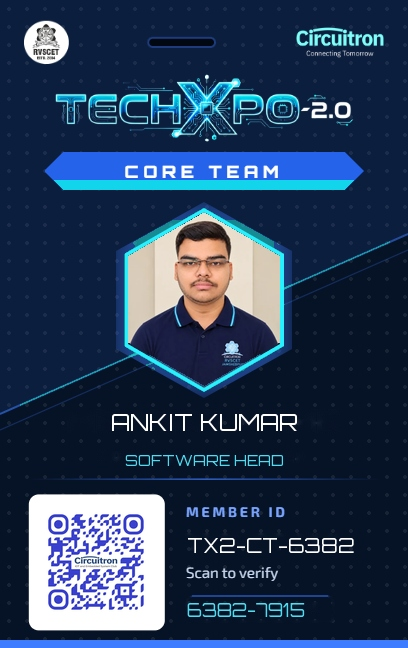
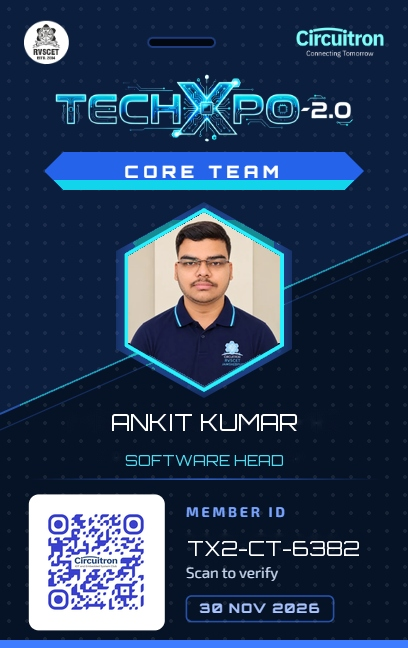
Remove legacy credential IDs, delete old card assets, and remove security bit display

Changed region(s): [[0.4412, 0.9259, 0.8235, 0.9877], [0.4706, 0.8333, 0.8824, 0.8642]]

diff --git a/src/pages/Verify.jsx b/src/pages/Verify.jsx
@@ -32,8 +32,8 @@ export default function Verify() {
   const [searchParams] = useSearchParams();
   const navigate = useNavigate();
 
-  // Determine target member ID from URL param or query string (defaults to TX2-EX-003 for Subha Pain)
-  const targetId = (paramId || searchParams.get("id") || "TX2-EX-003").trim().toUpperCase();
+  // Determine target member ID from URL param or query string (defaults to TX2-EX-9531 for Subha Pain)
+  const targetId = (paramId || searchParams.get("id") || "TX2-EX-9531").trim().toUpperCase();
 
   const [inputSearchId, setInputSearchId] = useState(targetId);
   const [copied, setCopied] = useState(false);
@@ -170,22 +170,12 @@ export default function Verify() {
                 </div>
               </div>
 
-              {/* Security ID Badge & Security Bit */}
-              <div className="flex flex-wrap items-center gap-2">
-                <div className="flex items-center space-x-2 bg-darkNavy/90 border border-emerald-500/30 px-3.5 py-1.5 rounded-xl">
-                  <span className="text-[10px] font-mono text-gray-400">SECURITY ID:</span>
-                  <span className="text-xs font-mono font-bold text-accent tracking-widest">
-                    {member.id}
-                  </span>
-                </div>
-                {member.securityBit && (
-                  <div className="flex items-center space-x-2 bg-darkNavy/90 border border-emerald-500/30 px-3.5 py-1.5 rounded-xl">
-                    <span className="text-[10px] font-mono text-gray-400">SECURITY BIT:</span>
-                    <span className="text-xs font-mono font-bold text-emerald-400 tracking-wider">
-                      #{member.securityBit}
-                    </span>
-                  </div>
-                )}
+              {/* Security ID Badge */}
+              <div className="flex items-center space-x-2 bg-darkNavy/90 border border-emerald-500/30 px-3.5 py-1.5 rounded-xl">
+                <span className="text-[10px] font-mono text-gray-400">SECURITY ID:</span>
+                <span className="text-xs font-mono font-bold text-accent tracking-widest">
+                  {member.id}
+                </span>
               </div>
             </div>
 
@@ -275,13 +265,6 @@ export default function Verify() {
                     <span className="text-gray-400 font-mono text-[10px] block uppercase">Designation</span>
                     <span className="text-primary font-semibold">{member.position || member.role}</span>
                   </div>
-
-                  {member.securityBit && (
-                    <div className="p-3 rounded-xl bg-emerald-500/10 border border-emerald-500/30 space-y-1">
-                      <span className="text-gray-400 font-mono text-[10px] block uppercase">Security Bit</span>
-                      <span className="text-emerald-400 font-bold font-mono">#{member.securityBit}</span>
-                    </div>
-                  )}
                 </div>
 
                 {/* Security Clearance level */}
@@ -456,7 +439,7 @@ export default function Verify() {
               type="text"
               value={inputSearchId}
               onChange={(e) => setInputSearchId(e.target.value)}
-              placeholder="e.g. TX2-EX-4918, TX2-FC-8492, or Security Bit"
+              placeholder="e.g. TX2-EX-7264, TX2-EX-4918, TX2-FC-8492"
               className="flex-1 px-4 py-3 bg-darkNavy/80 border border-primary/20 rounded-xl text-white placeholder-gray-500 focus:outline-none focus:border-accent text-sm font-mono uppercase"
             />
             <button type="submit" className="btn-primary py-3 px-6 text-xs font-bold whitespace-nowrap">
@@ -501,7 +484,7 @@ export default function Verify() {
 
             <div className="space-y-2 text-center text-xs text-gray-300">
               <p className="font-mono text-[11px] text-emerald-400 flex items-center justify-center gap-1.5">
-                <CheckCircle2 className="w-3.5 h-3.5" /> Official Circuitron QR &bull; Security Bit: #{member?.securityBit}
+                <CheckCircle2 className="w-3.5 h-3.5" /> Official Circuitron Scannable QR Badge
               </p>
               <code className="block bg-black/50 p-2 rounded text-[11px] font-mono text-accent select-all break-all">
                 {`https://circuitron2-0.vercel.app/verify/${member?.id || targetId}`}

diff --git a/src/data/team.js b/src/data/team.js
@@ -1,8 +1,6 @@
 export const facultyCoordinators = [
   {
     id: "TX2-FC-8492",
-    legacyId: "TX2-FC-001",
-    securityBit: "8492-7103",
     name: "Prof. Dr. Sushanta Mahanty",
     position: "Head PI",
     role: "Head PI",
@@ -17,8 +15,6 @@ export const facultyCoordinators = [
   },
   {
     id: "TX2-FC-3925",
-    legacyId: "TX2-FC-002",
-    securityBit: "3925-4618",
     name: "Prof. Dr. Vikash Kumar",
     position: "Co-PI",
     role: "Co-PI",
@@ -36,8 +32,6 @@ export const facultyCoordinators = [
 export const executiveTeam = [
   {
     id: "TX2-EX-4918",
-    legacyId: "TX2-EX-001",
-    securityBit: "4918-9325",
     name: "Umang Kumar Sharma",
     position: "President",
     role: "President",
@@ -54,8 +48,6 @@ export const executiveTeam = [
   },
   {
     id: "TX2-EX-7264",
-    legacyId: "TX2-EX-002",
-    securityBit: "7264-5812",
     name: "Akshat Anand Singh",
     position: "PR & Communication Head",
     role: "PR & Communication Head",
@@ -72,8 +64,6 @@ export const executiveTeam = [
   },
   {
     id: "TX2-EX-9531",
-    legacyId: "TX2-EX-003",
-    securityBit: "9531-8247",
     name: "Subha Pain",
     position: "Technical Head",
     role: "Technical Head",
@@ -90,8 +80,6 @@ export const executiveTeam = [
   },
   {
     id: "TX2-EX-3825",
-    legacyId: "TX2-EX-004",
-    securityBit: "3825-1490",
     name: "Anurag Gupta",
     position: "Vice President",
     role: "Vice President",
@@ -111,8 +99,6 @@ export const executiveTeam = [
 export const coreTeam = [
   {
     id: "TX2-CT-5819",
-    legacyId: "TX2-CT-001",
-    securityBit: "5819-3746",
     name: "Prem Shaw",
     role: "Event Head",
     position: "Event Head",
@@ -127,8 +113,6 @@ export const coreTeam = [
   },
   {
     id: "TX2-CT-4291",
-    legacyId: "TX2-CT-002",
-    securityBit: "4291-6523",
     name: "Shivam Kumar",
     role: "Event Head",
     position: "Event Head",
@@ -143,8 +127,6 @@ export const coreTeam = [
   },
   {
     id: "TX2-CT-8137",
-    legacyId: "TX2-CT-003",
-    securityBit: "8137-9051",
     name: "Ajay Nayak",
     role: "Media And Content Head",
     position: "Media And Content Head",
@@ -159,8 +141,6 @@ export const coreTeam = [
   },
   {
     id: "TX2-CT-2964",
-    legacyId: "TX2-CT-004",
-    securityBit: "2964-1873",
     name: "Joydev Kumar Mahato",
     role: "Technical Secretary",
     position: "Technical Secretary",
@@ -175,8 +155,6 @@ export const coreTeam = [
   },
   {
     id: "TX2-CT-7405",
-    legacyId: "TX2-CT-005",
-    securityBit: "7405-5284",
     name: "Rohini Kumari",
     role: "Hardware and Inventory Head",
     position: "Hardware and Inventory Head",
@@ -191,8 +169,6 @@ export const coreTeam = [
   },
   {
     id: "TX2-CT-6382",
-    legacyId: "TX2-CT-006",
-    securityBit: "6382-7915",
     name: "Ankit Kumar",
     role: "Software Head",
     position: "Software Head",
@@ -207,8 +183,6 @@ export const coreTeam = [
   },
   {
     id: "TX2-CT-9140",
-    legacyId: "TX2-CT-007",
-    securityBit: "9140-4168",
     name: "Mohit Kumar",
     role: "Designer Head",
     position: "Designer Head",
@@ -226,24 +200,6 @@ export const coreTeam = [
 export function getMemberById(id) {
   if (!id) return null;
   const normalized = id.trim().toUpperCase();
-
-  // Alias resolution between TX2-CR-xxx (old) and TX2-CT-xxx (official)
-  const alias = normalized.startsWith("TX2-CR-")
-    ? normalized.replace("TX2-CR-", "TX2-CT-")
-    : normalized.startsWith("TX2-CT-")
-    ? normalized.replace("TX2-CT-", "TX2-CR-")
-    : normalized;
-
   const all = [...facultyCoordinators, ...executiveTeam, ...coreTeam];
-  return (
-    all.find(
-      (m) =>
-        m.id === normalized ||
-        m.legacyId === normalized ||
-        m.id === alias ||
-        m.legacyId === alias ||
-        m.securityBit === normalized ||
-        m.securityBit.replace("-", "") === normalized.replace("-", "")
-    ) || null
-  );
+  return all.find((m) => m.id === normalized) || null;
 }
